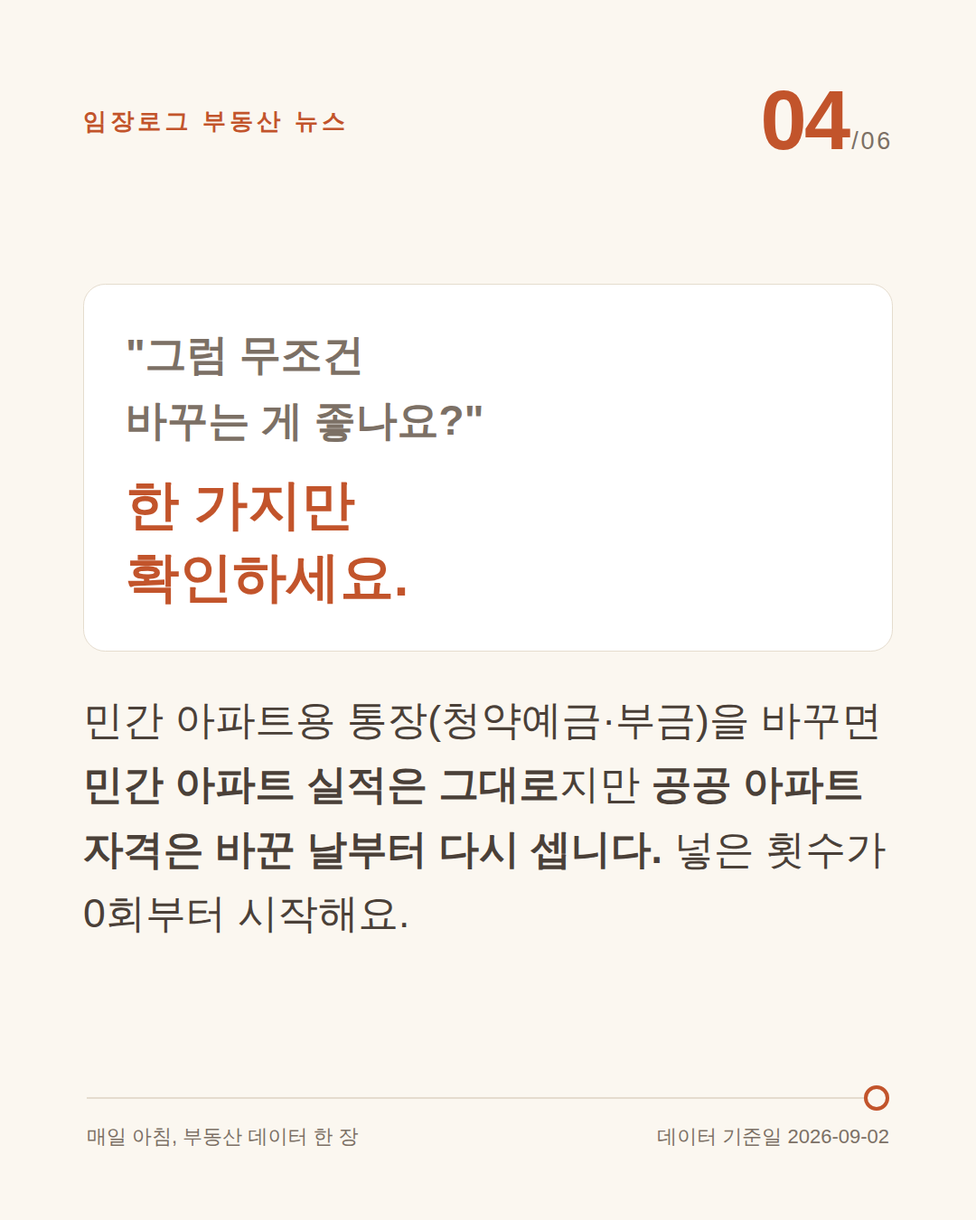
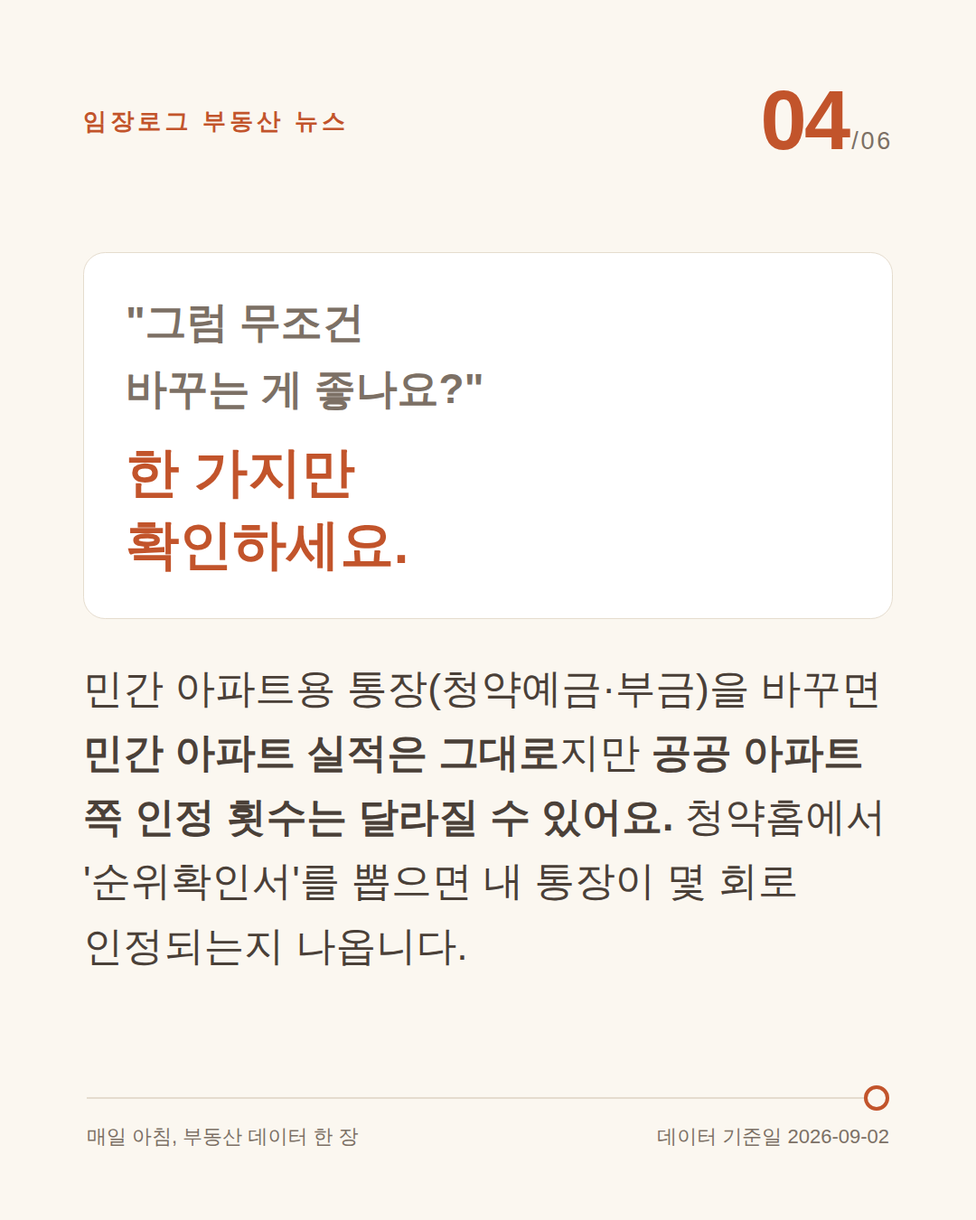
정정: 청약통장 전환 시 '회차 초기화'라는 단정을 근거에 맞게 완화 (#46 · #49)
사용자 확인 요청으로 SH 제51차 공고문 원문을 다시 읽었더니 내가 과하게 단정했다.

공고문이 실제로 말하는 것:
- "주택청약종합저축으로 전환한 경우 인정 실적이 달라질 수 있으므로 반드시
  청약통장 순위(가입)확인서를 발급받아 금회 공고 인정 여부 및 인정 실적 확인 요망"
  → '달라질 수 있다'이지 '초기화된다'가 아니다. 초기화를 확정할 문구는 없다.
- "'납입 횟수'는 통장에 나타난 회차 기준이 아닌 순위(가입)확인서에 표기된
  '납입인정회차'를 말함" → 개인별 인정 회차는 확인서로만 정해진다.

그리고 더 중요한 사실을 놓쳤다:
- "청약자격 및 순위 산정은 입주자모집공고일 기준이며, 공고일 전일까지 전환가입을
  완료한 경우 종합저축으로 청약신청 및 순위확인서 발급이 가능하다"
  → 공고일이 8/31이므로 전환 반영 기한은 8/30로 이미 지났다. 지금 전환해도
  이번 회차에는 반영되지 않는다. 회차 초기화 여부와 무관하다.
- 85㎡ 이하는 청약저축·종합저축이 유효하고 청약예금·부금은 85㎡ 초과용이다.
  예·부금만 있으면 이번 두 단지(59㎡)에서는 3순위(9/17)로 넣게 된다.

결론(지금 전환해도 이번엔 못 쓴다)은 유지되지만 근거를 공고문 원문으로 바꿨다.

수정 범위:
- posts/2026-09-04-jangjeonse.html 차트 5·본문·헤더·정리·주의문, 카드 5 라벨
- posts/2026-09-02-jeonhwan.html 헤더·차트 4·본문·체크리스트·정리·주의문
- 두 글의 카드 6장 x 3테마 + 인스타 + 캐러셀 재렌더
- 두 글의 인스타 캡션과 포스트 임베드 캡션, publish 본문 재생성
- title.txt · manifest · queue · titles-archive 의 관련 제목 정정 및 정정 기록

검증: 두 글 모두 img 7개, 슬롯 [이미지1~6] 전부, 줄표 0, 모바일 390px
오버플로 0, 값 라벨 잘림 0, 카드 오버플로 0, JS 에러 0.
'전환일부터 새로 / 0회부터 다시' 문구 전수 검사 결과 잔존 0.

Claude-Session: https://claude.ai/code/session_014FPhCKpii9mVmDWMzN6gma

Changed region(s): [[0.0917, 0.5289, 0.9167, 0.8089], [0.1222, 0.2489, 0.4889, 0.4978]]

diff --git a/posts/2026-09-04-jangjeonse.html b/posts/2026-09-04-jangjeonse.html
@@ -9,7 +9,7 @@
 <title>청담르엘 전세 11억7,000만원 · SH 장기전세 9월 14일 접수 | 부동산 키워드 리포트</title>
 <meta name="description" content="SH 제51차 장기전세주택 공고. 청담르엘 59㎡ 57세대 전세보증금 11억7,000만원, 디에이치방배 59㎡ 133세대 8억5,020만원입니다. 1순위 접수는 9월 14일 10시부터 15일 17시까지. 소득은 월평균 105% 이하(맞벌이 140%), 총자산 6억6,200만원 이하, 청약저축 24회 이상이 1순위 요건입니다. 최장 20년, 분양전환은 없습니다.">
 <meta property="og:title" content="청담르엘 전세 11억7,000만원 · SH 장기전세 9월 14일 접수">
-<meta property="og:description" content="청담르엘 59㎡ 57세대와 디에이치방배 59㎡ 133세대가 장기전세로 나옵니다. 1순위 접수는 9월 14일. 다만 지금 청약통장을 전환하면 이번 1순위가 안 됩니다.">
+<meta property="og:description" content="청담르엘 59㎡ 57세대와 디에이치방배 59㎡ 133세대가 장기전세로 나옵니다. 1순위 접수는 9월 14일. 다만 청약통장 전환은 공고일 전일까지여서 지금 바꿔도 이번 회차에는 반영되지 않습니다.">
 <meta property="og:type" content="article">
 <meta property="og:image" content="https://mkrealestate4s.github.io/mynews/images/cards/report/jangjeon-01-cover.png">
 <meta name="twitter:card" content="summary_large_image">
@@ -261,7 +261,7 @@ footer a{color:var(--teal)}
 <header>
   <div class="eyebrow">2026 · 9월 부동산 키워드 리포트 #49 · 장기전세 특집</div>
   <h1 class="serif gtx" style="font-size:clamp(1.9rem,6.8vw,3.8rem);line-height:1.22">청담르엘 전세<br>11억7,000만원</h1>
-  <p class="sub">SH가 <strong>제51차 장기전세주택</strong> 공고를 냈습니다. <strong>청담르엘 59㎡ 57세대</strong>가 전세보증금 <strong>11억7,000만원</strong>, <strong>디에이치방배 59㎡ 133세대</strong>가 <strong>8억5,020만원</strong>입니다. 최장 <strong>20년</strong>, 분양전환은 없습니다. <strong>1순위 접수는 9월 14일 10시부터 15일 17시까지</strong>입니다. <span class="mark">그런데 지금 청약통장을 전환하면 이번 1순위가 안 됩니다.</span> 그 이야기까지 아래에 정리했습니다.</p>
+  <p class="sub">SH가 <strong>제51차 장기전세주택</strong> 공고를 냈습니다. <strong>청담르엘 59㎡ 57세대</strong>가 전세보증금 <strong>11억7,000만원</strong>, <strong>디에이치방배 59㎡ 133세대</strong>가 <strong>8억5,020만원</strong>입니다. 최장 <strong>20년</strong>, 분양전환은 없습니다. <strong>1순위 접수는 9월 14일 10시부터 15일 17시까지</strong>입니다. <span class="mark">그런데 청약통장 전환은 공고일 전일까지였습니다.</span> 그 이야기까지 아래에 정리했습니다.</p>
 </header>
 
 <div class="trace"></div>
@@ -309,7 +309,7 @@ footer a{color:var(--teal)}
     <img class="card-art" data-file="jangjeon-02-schedule.png" src="../images/cards/report/jangjeon-02-schedule.png" alt="카드뉴스 2/6 · 일정: 9월 14일 접수, 2027년 3월 당첨자 발표" loading="lazy" width="1080" height="1080">
     <img class="card-art" data-file="jangjeon-03-deposit.png" src="../images/cards/report/jangjeon-03-deposit.png" alt="카드뉴스 3/6 · 59㎡ 단지별 전세보증금" loading="lazy" width="1080" height="1080">
     <img class="card-art" data-file="jangjeon-04-who.png" src="../images/cards/report/jangjeon-04-who.png" alt="카드뉴스 4/6 · 1순위 요건: 소득 105%, 자산 6억6,200만원, 청약저축 24회" loading="lazy" width="1080" height="1080">
-    <img class="card-art" data-file="jangjeon-05-trap.png" src="../images/cards/report/jangjeon-05-trap.png" alt="카드뉴스 5/6 · 지금 통장을 전환하면 이번 1순위가 안 된다" loading="lazy" width="1080" height="1080">
+    <img class="card-art" data-file="jangjeon-05-trap.png" src="../images/cards/report/jangjeon-05-trap.png" alt="카드뉴스 5/6 · 전환 반영 기한은 공고일 전일이었다" loading="lazy" width="1080" height="1080">
     <img class="card-art" data-file="jangjeon-06-check.png" src="../images/cards/report/jangjeon-06-check.png" alt="카드뉴스 6/6 · 중개 현장 체크 3가지" loading="lazy" width="1080" height="1080">
   </div>
 </section>
@@ -372,17 +372,22 @@ footer a{color:var(--teal)}
   <p>여기서 자주 틀립니다. 두 단지는 <strong>59㎡이므로 매입형 "50㎡ 이상 60㎡ 이하" 구간</strong>이고, 1순위 소득 기준이 <strong>105% 이하(맞벌이 140% 이하)</strong>입니다. <span class="mark">공사 건설형의 70% 기준과 혼동하기 쉬운데, 이번 두 단지는 105%입니다.</span> 금액으로는 <strong>3인 가구 857만6,850원, 4인 가구 924만2,312원</strong>이 105% 선입니다. 기본 자격은 <strong>공고일(8월 31일) 현재 서울시에 거주하는 성년자 무주택세대구성원</strong>이고, <strong>50~60㎡ 구간은 자치구 거주 요건이 없습니다.</strong> 강남·서초에 살지 않아도 서울시민이면 넣을 수 있다는 뜻입니다. 같은 순위에서 경쟁이 붙으면 <strong>가점 합산</strong>으로 가릅니다. 가점은 <strong>서울 연속거주기간, 무주택기간, 나이, 부양가족 수, 청약저축 납입 횟수</strong> 다섯 항목에 각 1~5점, <strong>최대 25점</strong>입니다. 3년 이내에 장기전세 계약 이력이 있으면 <strong>−6점</strong>입니다.</p>
 
   <h3>여기서 걸린다</h3>
-  <div class="chart" data-img="카드뉴스 5번 · 지금 통장을 전환하면 이번 1순위가 안 된다">
-    <h3>청약통장 전환과 이번 접수가 겹친다</h3>
-    <h4>장기전세 1순위 접수</h4>
+  <div class="chart" data-img="카드뉴스 5번 · 전환 반영 기한은 공고일 전일이었다">
+    <h3>성격이 다른 세 날짜</h3>
+    <h4>전환 반영 기한</h4>
+    <div class="statrow"><span class="big" style="white-space:nowrap">8월 30일</span>
+      <span class="desc">공고일 전일까지 전환을 마쳐야 이번 회차에 반영됩니다.</span></div>
+    <h4>1순위 접수</h4>
     <div class="statrow"><span class="big" style="white-space:nowrap">9월 14일</span>
-      <span class="desc">청약저축 납입회차 24회 이상이 조건입니다.</span></div>
-    <h4>청약통장 전환 마감</h4>
+      <span class="desc">85㎡ 이하는 청약저축 또는 종합저축이 유효합니다.</span></div>
+    <h4>전환 제도 마감</h4>
     <div class="statrow"><span class="big" style="white-space:nowrap">9월 30일</span>
-      <span class="desc">청약예금·부금을 종합저축으로 바꾸는 기한입니다.</span></div>
-    <p class="cap">기간이 다른 두 일정을 나란히 둔 것입니다. 전환 기한은 리포트 #46에서 다룬 국토교통부 한시 조치이고, 접수 일정은 이번 공고문 기준입니다.</p>
+      <span class="desc">다음 회차를 위한 마지막 기한입니다.</span></div>
+    <p class="cap">세 날짜의 성격이 다릅니다. 앞의 둘은 이번 공고문 기준이고 맨 아래는 리포트 #46에서 다룬 국토교통부 한시 조치의 종료일입니다. 한 축에 놓지 않고 나란히 두었습니다.</p>
   </div>
-  <p>옛 <strong>청약예금·청약부금</strong>만 가진 손님이 있습니다. 이 통장은 <strong>민영주택용</strong>이라 이번 장기전세 1순위 요건(청약저축 24회)에 해당하지 않습니다. 그러면 <strong>9월 30일까지 종합저축으로 전환하면 되지 않나</strong> 싶은데, 여기가 함정입니다. <span class="mark">전환하면 국민주택 청약 자격은 전환일부터 새로 기산됩니다.</span> 납입 회차가 0에서 시작하므로 <strong>9월 14일에 24회를 채울 방법이 없습니다.</strong> 즉 이번 회차는 1순위가 안 됩니다. 그렇다고 전환을 미루면 <strong>9월 30일에 기회 자체가 닫힙니다.</strong> 순서를 이렇게 안내하는 편이 맞습니다. <strong>이번 접수는 2·3순위로라도 넣고, 전환은 9월 30일 전에 해서 다음 회차를 준비</strong>하는 것입니다. 다만 회차 인정 방식은 통장 종류와 가입 시기에 따라 갈리므로, 개별 계좌는 <strong>가입 은행이나 청약홈에서 확인</strong>시켜야 합니다. 이 내용은 이번 공고문에 없고 전환 제도 쪽 안내입니다.</p>
+  <p>옛 <strong>청약예금·청약부금</strong>만 가진 손님이 있습니다. <strong>85㎡ 이하 주택은 청약저축(또는 주택청약종합저축)이 유효하고 청약예금·부금은 85㎡ 초과용</strong>이라, 59㎡인 이번 두 단지에서는 1순위 요건에 해당하지 않습니다. 그러면 <strong>9월 30일까지 전환하면 되지 않나</strong> 싶은데 여기가 함정입니다. 공고문은 <strong>"청약자격 및 순위 산정은 입주자모집공고일 기준이며, 공고일 전일까지 전환가입을 완료한 경우 종합저축으로 청약신청 및 순위확인서 발급이 가능하다"</strong>고 적고 있습니다. 공고일이 <strong>8월 31일</strong>이므로 반영 기한은 <strong>8월 30일로 이미 지났습니다.</strong> <span class="mark">지금 전환해도 이번 회차에는 반영되지 않습니다.</span> 그러니 이번에는 <strong>3순위(9월 17일)로 넣고, 전환은 9월 30일 전에 해서 다음 회차를 준비</strong>하는 순서가 맞습니다.</p>
+
+  <p>전환하면 회차가 어떻게 되는지는 <strong>단정하지 않는 편이 안전합니다.</strong> 공고문은 <strong>"전환한 경우 인정 실적이 달라질 수 있으므로 반드시 청약통장 순위(가입)확인서를 발급받아 금회 공고 인정 여부 및 인정 실적을 확인하라"</strong>고만 안내합니다. <span class="mark">회차가 0으로 초기화된다고 확정할 근거는 이 공고문에 없습니다.</span> 또 공고문은 <strong>"납입 횟수는 통장에 나타난 회차가 아니라 청약통장 순위(가입)확인서에 표기된 납입인정회차"</strong>라고 못박고 있습니다. 즉 개인별 인정 회차는 <strong>청약홈에서 순위확인서를 뽑아 보는 것 말고는 확인할 방법이 없습니다.</strong> 상담에서는 일반론으로 답하지 말고 <strong>순위확인서 발급을 안내</strong>하는 편이 정확합니다. 순위확인서는 공고일 다음 영업일부터 발급됩니다.</p>
 
   <h3>중개 실무 체크 3가지</h3>
   <figure class="cardimg" data-img="카드뉴스 6번 · 중개 현장 체크 3가지 (체크리스트)">
@@ -396,9 +401,9 @@ footer a{color:var(--teal)}
   </ol>
 
   <h3>정리</h3>
-  <p>제51차 장기전세는 <strong>1,381세대</strong>이고 신규 <strong>291세대</strong> 중 <strong>청담르엘 57세대, 디에이치방배 133세대</strong>가 65.3%를 차지합니다. 보증금은 <strong>11억7,000만원, 8억5,020만원</strong>이고 <strong>최장 20년, 분양전환 없음</strong>입니다. <strong>1순위 접수는 9월 14일 10시부터 15일 17시까지</strong>입니다. 요건은 <strong>소득 105% 이하(맞벌이 140%), 총자산 6억6,200만원 이하, 청약저축 24회 이상</strong>이고, 같은 순위에서는 <strong>가점 25점</strong>으로 가립니다. <span class="mark">가장 자주 놓치는 것은 청약통장 전환과의 순서입니다.</span> 지금 전환하면 이번 1순위가 안 되고, 안 하면 9월 30일에 전환 기회가 닫힙니다. 접수 직전에 한 번 더 정리해 올리겠습니다.</p>
+  <p>제51차 장기전세는 <strong>1,381세대</strong>이고 신규 <strong>291세대</strong> 중 <strong>청담르엘 57세대, 디에이치방배 133세대</strong>가 65.3%를 차지합니다. 보증금은 <strong>11억7,000만원, 8억5,020만원</strong>이고 <strong>최장 20년, 분양전환 없음</strong>입니다. <strong>1순위 접수는 9월 14일 10시부터 15일 17시까지</strong>입니다. 요건은 <strong>소득 105% 이하(맞벌이 140%), 총자산 6억6,200만원 이하, 청약저축 24회 이상</strong>이고, 같은 순위에서는 <strong>가점 25점</strong>으로 가립니다. <span class="mark">가장 자주 놓치는 것은 청약통장 전환과의 순서입니다.</span> 자격과 순위는 공고일(8월 31일) 기준이고 전환 반영 기한은 그 전일이었으므로, 지금 전환해도 이번 회차에는 반영되지 않습니다. 대신 9월 30일 전에 전환해 두면 다음 회차를 준비할 수 있습니다. 접수 직전에 한 번 더 정리해 올리겠습니다.</p>
 
-  <div class="note">※ 본 페이지는 시장 정보 제공 목적이며, 특정 거래·투자를 권유하지 않습니다. 본문 수치는 SH 제51차 장기전세주택 입주자모집 공고문(2026년 8월 31일)에서 확인한 값이며, 공급 세대수·면적·타입·일정은 사업계획과 현장 여건에 따라 변경될 수 있습니다. 소득·자산 요건은 출생자녀와 맞벌이 여부에 따라 가산되므로 개별 적용은 공고문 23~24쪽과 54~55쪽을 확인하십시오. 청약 신청 시점에는 자격을 검증하지 않고 이후 서류심사에서 확인하므로, 자격 미달로 신청하면 나중에 탈락합니다. 청약통장 전환 후 회차 인정 방식은 이 공고문의 내용이 아니므로 가입 은행이나 청약홈에서 확인하십시오. 최종 판단은 반드시 공고문 원문을 근거로 하십시오.</div>
+  <div class="note">※ 본 페이지는 시장 정보 제공 목적이며, 특정 거래·투자를 권유하지 않습니다. 본문 수치는 SH 제51차 장기전세주택 입주자모집 공고문(2026년 8월 31일)에서 확인한 값이며, 공급 세대수·면적·타입·일정은 사업계획과 현장 여건에 따라 변경될 수 있습니다. 소득·자산 요건은 출생자녀와 맞벌이 여부에 따라 가산되므로 개별 적용은 공고문 23~24쪽과 54~55쪽을 확인하십시오. 청약 신청 시점에는 자격을 검증하지 않고 이후 서류심사에서 확인하므로, 자격 미달로 신청하면 나중에 탈락합니다. 전환한 통장의 인정 실적에 대해 공고문은 "달라질 수 있으므로 순위(가입)확인서로 확인하라"고만 안내합니다. 회차가 초기화된다고 단정할 근거는 공고문에 없으므로, 개별 계좌는 청약홈에서 순위확인서를 발급해 확인하십시오. 최종 판단은 반드시 공고문 원문을 근거로 하십시오.</div>
 </article>
 
 <div class="trace"></div>
@@ -459,15 +464,20 @@ SH(서울주택도시개발공사)가
 
 청약통장 : 주택청약종합저축 24회 이상
 
-📍 통장 바꾸려던 분은 잠깐
+📍 통장 바꾸려던 분은요
 
-옛 청약예금·부금을 새 통장으로 바꾸면
-넣은 횟수가 0회부터 다시 시작합니다.
-9월 14일까지 24회를 채울 수가 없어요.
+이번 건 이미 지났습니다.
 
-이번엔 2·3순위로라도 넣고,
-전환은 9월 30일 전에 해서
-다음 기회를 준비하는 순서가 맞습니다.
+자격과 순위는 공고일(8월 31일) 기준이라
+전환은 그 전날까지 마쳐야 이번 회차에 반영됩니다.
+지금 바꿔도 이번엔 반영되지 않아요.
+
+9월 30일 전에 바꿔 두고 다음 기회를 노리세요.
+
+참고로 85㎡ 이하는 청약저축이나 종합저축이 유효하고
+청약예금·부금은 85㎡ 초과용입니다.
+내 통장이 몇 회로 인정되는지는
+청약홈에서 '순위확인서'를 뽑으면 나옵니다.
 
 📌 넣기 전에 볼 것
 ① 내 순위의 접수일 확인. 1순위는 9월 14~15일뿐입니다

diff --git a/posts/2026-09-02-jeonhwan.html b/posts/2026-09-02-jeonhwan.html
@@ -9,7 +9,7 @@
 <title>청약통장 갈아타기, 9월 30일이면 닫힙니다 · 아직 113만 명이 옛 통장 | 부동산 키워드 리포트</title>
 <meta name="description" content="청약예금·청약부금·청약저축을 주택청약종합저축으로 바꾸는 전환 기한이 2026년 9월 30일에 끝납니다. 오늘 포함 29일 남았습니다. 아직 청약예금 72만, 청약저축 29만, 청약부금 12만 등 약 113만 명이 옛 통장입니다. 전환하면 금리 최대 3.1%, 소득공제 한도 300만원이 적용됩니다.">
 <meta property="og:title" content="청약통장 갈아타기, 9월 30일이면 닫힙니다">
-<meta property="og:description" content="청약예금·부금·저축을 종합저축으로 바꾸는 기한이 9월 30일에 끝납니다. 아직 113만 명이 옛 통장입니다. 다만 국민주택 자격은 전환일부터 새로 셉니다.">
+<meta property="og:description" content="청약예금·부금·저축을 종합저축으로 바꾸는 기한이 9월 30일에 끝납니다. 아직 113만 명이 옛 통장입니다. 다만 국민주택 실적 인정 방식이 달라질 수 있어 순위확인서로 확인해야 합니다.">
 <meta property="og:type" content="article">
 <meta property="og:image" content="https://mkrealestate4s.github.io/mynews/images/cards/report/jeonhwan-01-cover.png">
 <meta name="twitter:card" content="summary_large_image">
@@ -253,7 +253,7 @@ footer a{color:var(--teal)}
 <header>
   <div class="eyebrow">2026 · 9월 부동산 키워드 리포트 #46</div>
   <h1 class="serif gtx" style="font-size:clamp(1.9rem,6.8vw,3.8rem);line-height:1.22">청약통장 갈아타기,<br>9월 30일까지</h1>
-  <p class="sub">청약예금·청약부금·청약저축을 <strong>주택청약종합저축</strong>으로 바꾸는 전환 기한이 <strong>2026년 9월 30일</strong>에 끝납니다. 오늘 포함 <strong>29일</strong> 남았습니다. 한 번 연장된 기한이고, 지금까지 공지된 마감일은 이날입니다. 아직 <strong>청약예금 72만, 청약저축 29만, 청약부금 12만</strong>, 약 <strong>113만 명</strong>이 옛 통장을 들고 있습니다. <span class="mark">바꾸면 금리와 소득공제가 올라가지만, 국민주택 청약 자격은 전환일부터 새로 셉니다.</span> 그래서 무조건 바꾸라고 안내하면 안 됩니다.</p>
+  <p class="sub">청약예금·청약부금·청약저축을 <strong>주택청약종합저축</strong>으로 바꾸는 전환 기한이 <strong>2026년 9월 30일</strong>에 끝납니다. 오늘 포함 <strong>29일</strong> 남았습니다. 한 번 연장된 기한이고, 지금까지 공지된 마감일은 이날입니다. 아직 <strong>청약예금 72만, 청약저축 29만, 청약부금 12만</strong>, 약 <strong>113만 명</strong>이 옛 통장을 들고 있습니다. <span class="mark">바꾸면 금리와 소득공제가 올라가지만, 국민주택 쪽 실적 인정 방식이 달라질 수 있습니다.</span> 그래서 무조건 바꾸라고 안내하면 안 됩니다.</p>
 </header>
 
 <div class="trace"></div>
@@ -296,7 +296,7 @@ footer a{color:var(--teal)}
     <img class="card-art" data-file="jeonhwan-01-cover.png" src="../images/cards/report/jeonhwan-01-cover.png" alt="카드뉴스 1/6 · 표지: 청약통장 갈아타기, 9월 30일까지" loading="lazy" width="1080" height="1080">
     <img class="card-art" data-file="jeonhwan-02-who.png" src="../images/cards/report/jeonhwan-02-who.png" alt="카드뉴스 2/6 · 남은 옛 통장 113만 명의 구성" loading="lazy" width="1080" height="1080">
     <img class="card-art" data-file="jeonhwan-03-benefit.png" src="../images/cards/report/jeonhwan-03-benefit.png" alt="카드뉴스 3/6 · 전환하면 달라지는 3가지" loading="lazy" width="1080" height="1080">
-    <img class="card-art" data-file="jeonhwan-04-trap.png" src="../images/cards/report/jeonhwan-04-trap.png" alt="카드뉴스 4/6 · 국민주택 자격은 전환일부터 새로 센다" loading="lazy" width="1080" height="1080">
+    <img class="card-art" data-file="jeonhwan-04-trap.png" src="../images/cards/report/jeonhwan-04-trap.png" alt="카드뉴스 4/6 · 국민주택 실적 인정이 달라질 수 있다" loading="lazy" width="1080" height="1080">
     <img class="card-art" data-file="jeonhwan-05-leave.png" src="../images/cards/report/jeonhwan-05-leave.png" alt="카드뉴스 5/6 · 가입보다 해지가 많다" loading="lazy" width="1080" height="1080">
     <img class="card-art" data-file="jeonhwan-06-check.png" src="../images/cards/report/jeonhwan-06-check.png" alt="카드뉴스 6/6 · 중개 현장 체크 3가지" loading="lazy" width="1080" height="1080">
   </div>
@@ -344,17 +344,17 @@ footer a{color:var(--teal)}
   <p>가장 큰 변화는 <strong>청약 가능 범위</strong>입니다. 민영주택 전용이던 통장으로 국민주택도, 국민주택 전용이던 통장으로 민영주택도 넣을 수 있게 됩니다. 금리는 <strong>2.0~2.8%에서 2.3~3.1%</strong>로 올랐고, 소득공제 한도는 <strong>240만원에서 300만원</strong>이 됐습니다. 월 납입인정액은 <strong>10만원에서 25만원</strong>으로 올라, 국민주택 청약에서 저축 총액을 쌓는 속도가 빨라집니다. <span class="mark">숫자만 보면 전환이 유리해 보입니다.</span> 문제는 다음 항목입니다.</p>
 
   <h3>여기서 걸린다</h3>
-  <div class="chart" data-img="카드뉴스 4번 · 국민주택 자격은 전환일부터 새로 센다">
+  <div class="chart" data-img="카드뉴스 4번 · 국민주택 실적 인정이 달라질 수 있다">
     <h3>청약예금·부금을 전환했을 때 실적 인정</h3>
     <h4>민영주택 청약</h4>
     <div class="statrow"><span class="big" style="white-space:nowrap">그대로</span>
       <span class="desc">기존 가입 기간과 예치금 실적이 이어집니다.</span></div>
     <h4>국민주택 청약</h4>
-    <div class="statrow"><span class="big" style="white-space:nowrap">전환일부터</span>
-      <span class="desc">가입 기간과 납입 회차를 새로 세기 시작합니다.</span></div>
-    <p class="cap">같은 통장을 두 가지 청약 유형으로 나눠 본 것입니다. 통장 종류와 청약 유형의 조합에 따라 인정 방식이 달라지므로, 개별 계좌는 은행이나 청약홈에서 확인해야 합니다.</p>
+    <div class="statrow"><span class="big" style="white-space:nowrap">확인 필요</span>
+      <span class="desc">가입 기간과 납입 회차 인정이 달라질 수 있습니다.</span></div>
+    <p class="cap">같은 통장을 두 가지 청약 유형으로 나눠 본 것입니다. 국민주택 쪽 인정 실적은 통장 종류와 가입 시기에 따라 갈리고, 실제 값은 청약통장 순위(가입)확인서에 적힌 '납입인정회차'로만 정해집니다. 개별 계좌는 청약홈이나 가입 은행에서 확인해야 합니다.</p>
   </div>
-  <p>청약예금이나 청약부금을 종합저축으로 바꾸면 <strong>민영주택 청약 실적은 그대로 이어집니다.</strong> 그런데 <strong>국민주택 청약 자격은 전환한 날부터 새로 기산됩니다.</strong> 가입 기간도, 납입 회차도 0에서 시작합니다. <span class="mark">국민주택은 납입 회차와 저축 총액으로 순위를 가리므로, 이 초기화는 가볍지 않습니다.</span> 즉 전환의 실익은 <strong>"국민주택도 노릴 생각이 있는가"</strong>에 달려 있습니다. 민영주택만 볼 손님이라면 지금 통장으로도 충분하고, 금리와 소득공제만 보고 옮기는 선택이 됩니다. 반대로 국민주택을 볼 생각이라면 <strong>하루라도 빨리 전환해야</strong> 회차가 쌓입니다.</p>
+  <p>청약예금이나 청약부금을 종합저축으로 바꾸면 <strong>민영주택 청약 실적은 그대로 이어집니다.</strong> 문제는 국민주택 쪽입니다. <strong>전환하면 인정 실적이 달라질 수 있습니다.</strong> 국토교통부 안내로는 국민주택 청약에서 전환 이후의 가입 기간과 납입 회차만 인정된다고 알려져 있는데, <span class="mark">개별 계좌에 실제로 몇 회가 인정되는지는 청약통장 순위(가입)확인서로만 확인됩니다.</span> 통장에 찍힌 회차가 아니라 그 확인서의 <strong>'납입인정회차'</strong>가 기준입니다. 즉 전환의 실익은 <strong>"국민주택도 노릴 생각이 있는가"</strong>에 달려 있고, 판단 전에 <strong>순위확인서를 먼저 뽑아 봐야</strong> 합니다. 민영주택만 볼 손님이라면 지금 통장으로도 충분하고, 금리와 소득공제만 보고 옮기는 선택이 됩니다.</p>
 
   <h3>왜 다들 미루다 놓치나</h3>
   <div class="chart" data-img="카드뉴스 5번 · 가입보다 해지가 많다">
@@ -374,14 +374,14 @@ footer a{color:var(--teal)}
   </figure>
   <ol class="check">
     <li><strong>통장 종류부터 물어보라</strong>. 손님 대부분은 자기 통장이 <strong>청약예금인지 종합저축인지 모릅니다.</strong> 2009년 이전에 만들었다면 옛 통장일 가능성이 있습니다. 상담 중 "청약통장 언제 만드셨어요"를 한 번 넣어 두면, 이번 달 안에 알려 줄 수 있는 손님을 걸러낼 수 있습니다.</li>
-    <li><strong>국민주택 계획이 있는지로 갈려라</strong>. 민영주택만 볼 손님이라면 전환은 금리와 소득공제만 얻는 선택입니다. <strong>국민주택(공공분양·공공임대)을 볼 생각이 있다면 전환일부터 회차가 쌓이므로 하루라도 빠른 편이 낫습니다.</strong> 무조건 바꾸라고도, 그냥 두라고도 하지 마십시오.</li>
+    <li><strong>국민주택 계획이 있는지로 갈려라</strong>. 민영주택만 볼 손님이라면 전환은 금리와 소득공제만 얻는 선택입니다. <strong>국민주택(공공분양·공공임대)을 볼 생각이 있다면 청약홈에서 순위(가입)확인서를 먼저 뽑아 인정 회차를 확인시키십시오.</strong> 전환 후 인정 실적이 달라질 수 있어 일반론으로는 답이 안 나옵니다. 무조건 바꾸라고도, 그냥 두라고도 하지 마십시오.</li>
     <li><strong>개별 계좌는 은행과 청약홈에서 확인시켜라</strong>. 통장 종류와 청약 유형의 조합에 따라 인정 방식이 다르고, 가입 시기에 따라 <strong>모바일로 되는 계좌와 창구에 가야 하는 계좌</strong>가 갈립니다. 중개 상담에서 결론을 내리지 말고, <strong>기한이 이번 달 30일이라는 사실</strong>만 정확히 전달하고 은행 확인을 안내하는 편이 안전합니다.</li>
   </ol>
 
   <h3>정리</h3>
-  <p>청약예금·부금·저축을 주택청약종합저축으로 바꿀 수 있는 기한이 <strong>9월 30일</strong>에 끝납니다. 대상은 <strong>약 113만 명</strong>이고, 전환하면 <strong>전 주택 유형 청약, 금리 최대 3.1%, 소득공제 한도 300만원, 월 납입인정액 25만원</strong>이 적용됩니다. 다만 청약예금·부금에서 넘어가면 <strong>국민주택 자격은 전환일부터 새로 셉니다.</strong> <span class="mark">그래서 이 건은 "좋으니 바꾸세요"가 아니라 "무엇을 노리시는지"를 먼저 묻는 상담입니다.</span> 마감이 다가올수록 검색과 문의가 몰리므로, 이번 달 중순 이후 은행 창구가 붐빌 가능성도 함께 안내해 두면 좋습니다.</p>
+  <p>청약예금·부금·저축을 주택청약종합저축으로 바꿀 수 있는 기한이 <strong>9월 30일</strong>에 끝납니다. 대상은 <strong>약 113만 명</strong>이고, 전환하면 <strong>전 주택 유형 청약, 금리 최대 3.1%, 소득공제 한도 300만원, 월 납입인정액 25만원</strong>이 적용됩니다. 다만 청약예금·부금에서 넘어가면 <strong>국민주택 쪽 인정 실적이 달라질 수 있습니다.</strong> <span class="mark">그래서 이 건은 "좋으니 바꾸세요"가 아니라 "무엇을 노리시는지"를 먼저 묻는 상담입니다.</span> 마감이 다가올수록 검색과 문의가 몰리므로, 이번 달 중순 이후 은행 창구가 붐빌 가능성도 함께 안내해 두면 좋습니다.</p>
 
-  <div class="note">※ 본 페이지는 시장 정보 제공 목적이며, 특정 거래·투자를 권유하지 않습니다. 전환 가능 여부와 실적 인정 방식은 통장 종류, 가입 시기, 청약 유형에 따라 달라지므로 개별 계좌는 가입 은행이나 청약홈에서 확인하십시오. 기한과 제도 내용은 정부 발표에 따라 바뀔 수 있습니다. 금리는 가입 기간별 구간이 있으며 본문의 3.1%는 최고 구간입니다.</div>
+  <div class="note">※ 본 페이지는 시장 정보 제공 목적이며, 특정 거래·투자를 권유하지 않습니다. 전환 가능 여부와 실적 인정 방식은 통장 종류, 가입 시기, 청약 유형에 따라 달라지므로 개별 계좌는 가입 은행이나 청약홈에서 확인하십시오. 전환 후 회차가 0으로 초기화된다고 단정할 수 있는 공식 문구는 확인되지 않았습니다. SH 공고문은 "전환한 경우 인정 실적이 달라질 수 있으므로 순위(가입)확인서로 확인하라"고만 안내합니다. 기한과 제도 내용은 정부 발표에 따라 바뀔 수 있습니다. 금리는 가입 기간별 구간이 있으며 본문의 3.1%는 최고 구간입니다.</div>
 </article>
 
 <div class="trace"></div>
@@ -437,11 +437,14 @@ footer a{color:var(--teal)}
 
 민간 아파트용 통장(청약예금·부금)을 바꾸면
 민간 아파트 실적은 그대로지만
-공공 아파트 자격은 바꾼 날부터 다시 셉니다.
-넣은 횟수가 0회부터 시작해요.
+공공 아파트 쪽 인정 횟수는 달라질 수 있어요.
+
+내 통장이 몇 회로 인정되는지는
+청약홈에서 '순위확인서'를 뽑으면 나옵니다.
+통장에 찍힌 횟수가 아니라 그 확인서가 기준이에요.
 
 그래서 이렇게 갈립니다.
-공공분양도 볼 생각이면 → 하루라도 빨리
+공공분양도 볼 생각이면 → 순위확인서로 먼저 확인
 민간만 볼 생각이면 → 이자와 공제만 얻는 선택
 잘 모르겠으면 → 은행에 물어보세요
 
